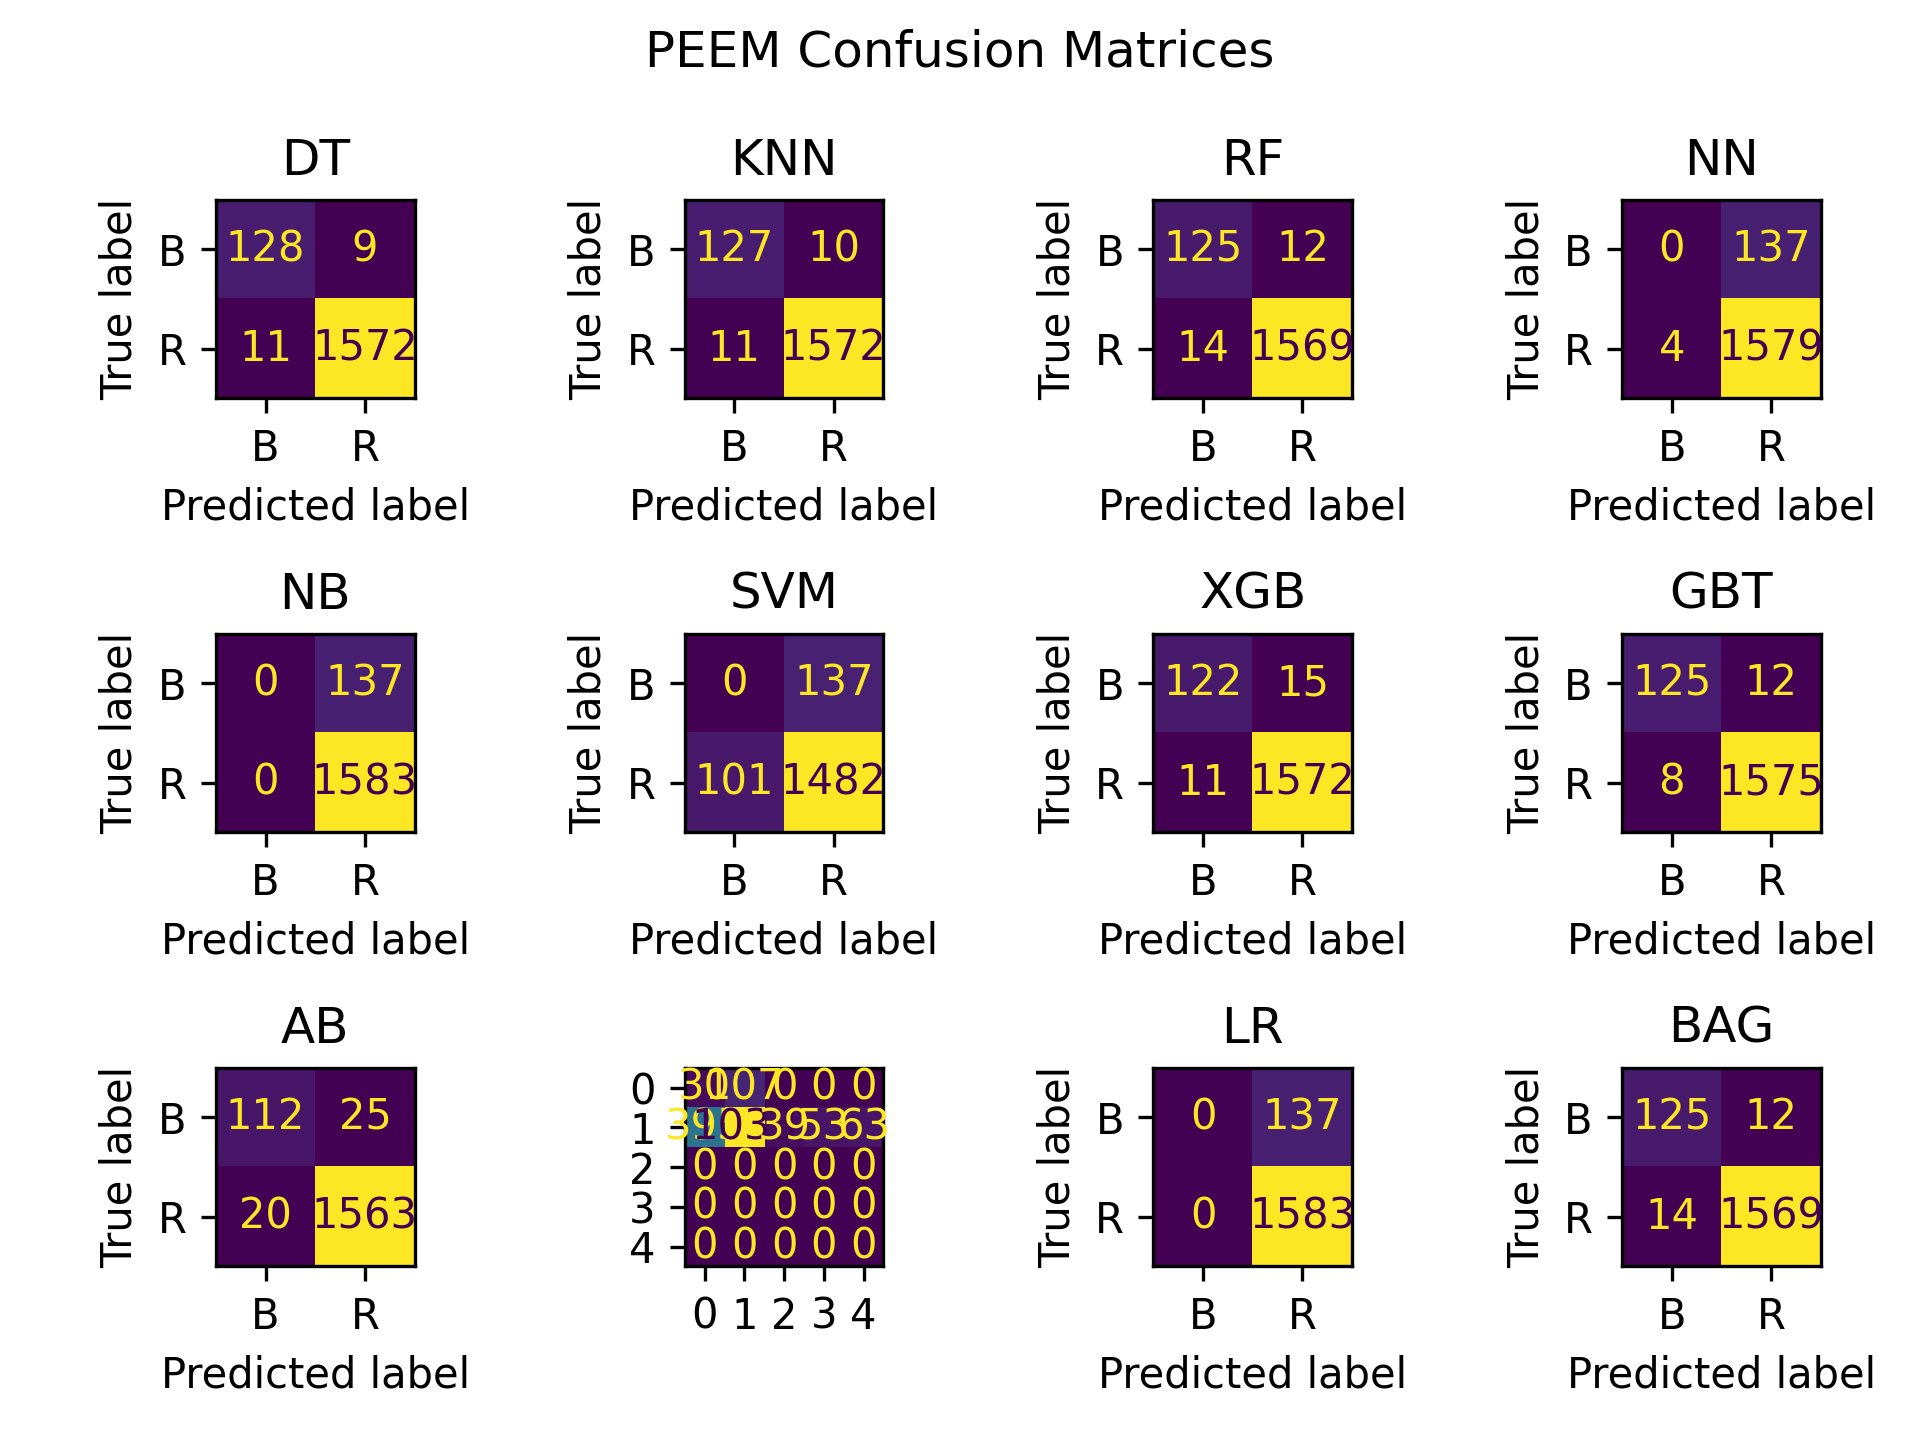
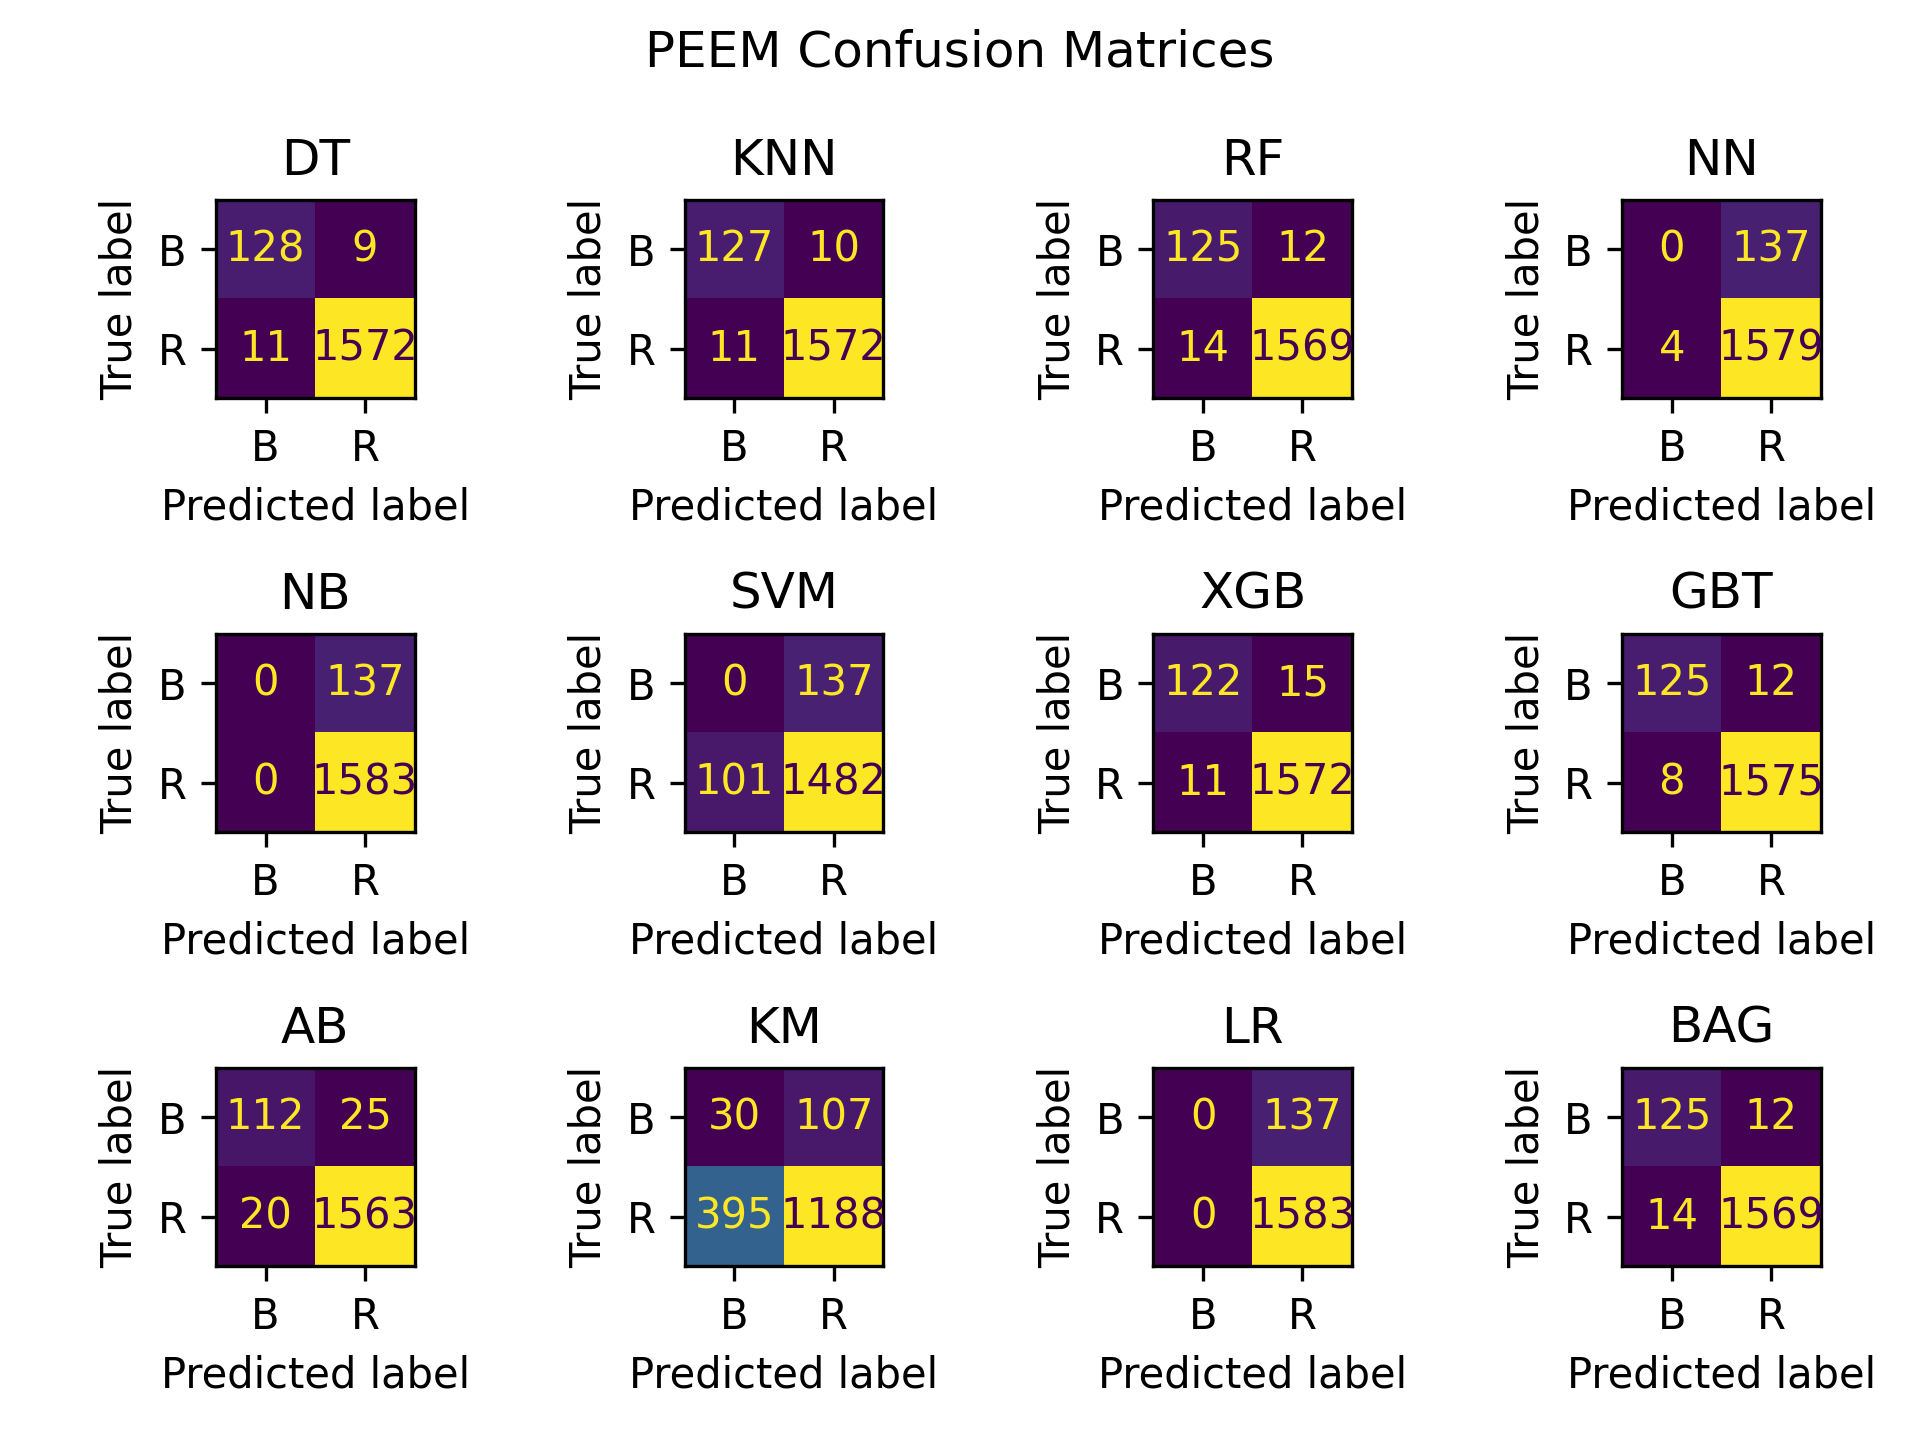
Added CM and ROC

Changed region(s): [[0.2812, 0.6875, 0.5, 0.9688]]

diff --git a/main.py b/main.py
@@ -292,8 +292,9 @@ def main():
         axes.set_title(prefix)
         for x in MODEL_LIST:
             try:
-                RocCurveDisplay.from_estimator(
-                    models[x + "_" + prefix], X["VAL"], Y["VAL"], ax=axes
+                pred = models[x + "_" + prefix].predict(X["VAL"])
+                RocCurveDisplay.from_predictions(
+                    Y["VAL"], pred, ax=axes, name=x
                 )
             except Exception:
                 log.log("Failed to generate ROC for " + x)
@@ -338,7 +339,9 @@ def main():
         for x in MODEL_LIST:
             try:
                 axis[r, c].set_title(x)
+
                 pred = models[x + "_" + prefix].predict(X["VAL"])
+
                 # print(pred)
                 ConfusionMatrixDisplay.from_predictions(Y["VAL"], pred, ax=axis[r, c], colorbar=False, display_labels=["B", "R"])
                 
@@ -354,7 +357,7 @@ def main():
                     c = 0
             
                 print(e)
-                log.log("\n\nFailed to generate CM for " + mdl + " " + prefix)
+                log.log("\n\nFailed to generate CM for " + x + " " + prefix)
                 continue
         figure.suptitle(prefix + " Confusion Matrices")
         figure.tight_layout()
